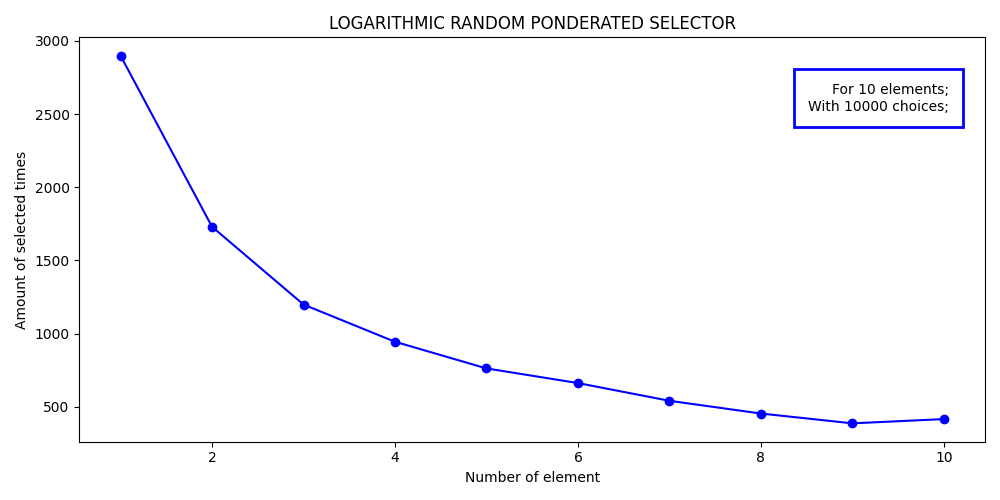
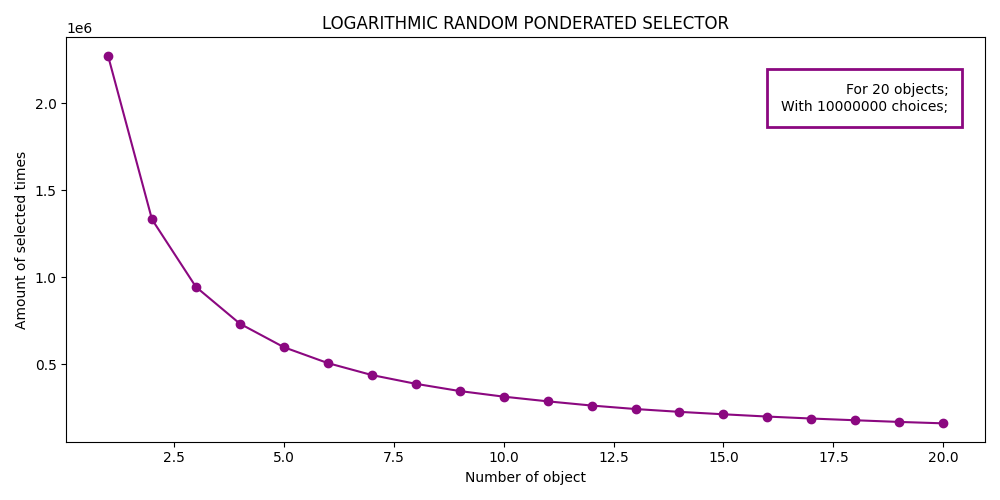
LRPS Algorithm v.1.0.1
The word elements was changed in all places to objects, as it is clearer and more descriptive; in addition, it is in accordance with the -in process- article. Also, the color on the plot lines was changed to purple instead of blue :3

diff --git a/Algorithm/logrps.py b/Algorithm/logrps.py
@@ -5,39 +5,39 @@
 import random
 import math
 
-def logrps(elements: list):
+def logrps(objects: list):
 
     '''
         Logarithmic Random Poderated Selector:
 
-        This algorithm gets a list of elements, and using
+        This algorithm gets a list of objects, and using
         a logarithmic scale, selects randomly one member
         of the list giving a higher probability weight to
-        the initial elements of the list.
+        the initial objects of the list.
 
         This algorithm selects with more frecuency the
         initial members of the list, based on the
         logarithmic/exponential curve form.
     '''
 
-    #* Amount of elements: "n":
-    n = len(elements)
+    #* Amount of objects: "n":
+    n = len(objects)
 
     #* Validation cases:
     #? When list is empty:
     if n == 0:
         return "List cannot be empty :c"
-    #? When list has only one element:
+    #? When list has only one object:
     if n == 1:
-        return elements[0]
+        return objects[0]
     
-    #* Throws a random float number based on the n elements:
+    #* Throws a random float number based on the n objects:
     #? To operate the numbers, it will consider 1 as the
-    #? first element; then when it selects an index of the
+    #? first object; then when it selects an index of the
     #? list, it will take at 0-starting notation:
     #/ Random float between 1 and n with 4 decimals.
     #* This random represent a random point of selection
-    #* in a linear axis in which all elements has the same
+    #* in a linear axis in which all objects has the same
     #* space to be selected:
     randomLinearPoint = round(random.uniform(0, n), 4)
     # print(f"\nRandom Lineal Point: {randomLinearPoint}; ", end="")
@@ -46,19 +46,19 @@ def logrps(elements: list):
     This is the propuse:
 
         * Having a linear scale between 1 - n, all the spaces
-          between elements has the same size.
+          between objects has the same size.
         
         * Having a logarithmic scale between 1 - n, the spaces
-          between elements are different; the first element has
+          between objects are different; the first object has
           the biggest space, the second is smaller, etc. The
           differences between the spaces is based on logarithms.
 
         * When the random is selected, you get the linear scale
-          element; then it has to ponderate the space with the
+          object; then it has to ponderate the space with the
           logarithmic scale, to select the equivalent.
 
         Example:
-        NOTE: E1, E2, ..., E6 are the 6 elements of the list.
+        NOTE: E1, E2, ..., E6 are the 6 objects of the list.
 
         LINEAR SCALE:
             E1      E2      E3      E4      E5      E6
@@ -89,6 +89,6 @@ def logrps(elements: list):
     for i in range(2, (n+1)+1):
         # print((n+1) * math.log(i, n+1), end=" ")
         if randomLinearPoint <= (n * math.log(i, n+1)):
-            #! Returns the selected element:
+            #! Returns the selected object:
             # print(f"Logarithmic point: {i-1};")
-            return elements[(i-1)-1]
+            return objects[(i-1)-1]

diff --git a/Algorithm/experiments.py b/Algorithm/experiments.py
@@ -5,33 +5,33 @@ from logrps import logrps
 #* repeating the selection experiment a lot of times:
 times = int(input("\nRepetitions: "))
 
-#? Example list of 10 elements;
-#* The algorithm has to recieve this list and select randomly one element;
+#? Example list of 10 objects;
+#* The algorithm has to recieve this list and select randomly one object;
 #* By repeating the selection a lot of times, the result has to be that the
-#* first element "E1" is the most frecuent selected, and then "E2", etc.
+#* first object "Obj1" is the most frecuent selected, and then "Obj2", etc.
 #! IF YOU  WANT TO MAKE SOME EXPERIMENTS WITH AN OWN IDEA OF SELECTION LIST
-#! YOU JUST HAVE TO PUT INTO THE LIST "elements" WHATEVER YOU WANT!
-elements: list = ["E1", "E2", "E3", "E4", "E5", "E6", "E7", "E8", "E9", "E10"]
+#! YOU JUST HAVE TO PUT INTO THE LIST "objects" WHATEVER YOU WANT!
+objects: list = ["Obj1", "Obj2", "Obj3", "Obj4", "Obj5", "Obj6", "Obj7", "Obj8", "Obj9", "Obj10"]
 counter = []
-n = len(elements)
+n = len(objects)
 
 #? Fills a counter vector with 0's; it will contains the amount of times that
-#? each element of the list was selected:
+#? each object of the list was selected:
 for i in range(0, n):
     counter.append(0)
 
 #/ Does all the repetitions of the experiment using the logrps function to select
-#/ something on the list; and counts the times that each element was selected.
+#/ something on the list; and counts the times that each object was selected:
 for _ in range(0, times):
-    selected = logrps(elements)
-    index = elements.index(selected)
+    selected = logrps(objects)
+    index = objects.index(selected)
     counter[index] += 1
 
 #? Prints the data from the counter:
-print(f"Elements on list: {n}")
+print(f"Objects on list: {n}")
 print("\nSelected times:")
 for i in range(0, n):
-    print(f"Element #{i+1} [{elements[i]}]: {counter[i]} times selected;")
+    print(f"Object #{i+1} [{objects[i]}]: {counter[i]} times selected;")
 
 
 # Draws the line in a graph:
@@ -39,7 +39,7 @@ plt.rcParams["figure.figsize"] = [10, 5]
 plt.rcParams["figure.autolayout"] = True
 
 # Points with:
-# (element, amountOfSelections ):
+# (object, amountOfSelections ):
 # points: list = []
 x_values: list = []
 y_values: list = []
@@ -53,16 +53,16 @@ for i in range(0, n):
 # Shows the graphic:
 plt.title("LOGARITHMIC RANDOM PONDERATED SELECTOR")
 plt.ylabel("Amount of selected times")
-plt.xlabel("Number of element")
-info = f"For {n} elements;\nWith {times} choices;"
+plt.xlabel("Number of object")
+info = f"For {n} objects;\nWith {times} choices;"
 plt.annotate(info,
 xy=(0.96, 0.8), xytext=(0, 12),
 xycoords=("axes fraction", "figure fraction"),
 textcoords="offset points",
 size=10, ha="right", va="top",
-bbox=dict(boxstyle="square,pad=1.0", fc="white", ec="b", lw=2))
+bbox=dict(boxstyle="square,pad=1.0", fc="white", ec="#8B0880", lw=2))
 
-plt.plot(x_values, y_values, "bo", linestyle="-")
+plt.plot(x_values, y_values, "o", c="#8B0880", mfc="#8B0880", linestyle="-")
 plt.savefig("logselection.png", dpi="figure")
 plt.show()
 print()
